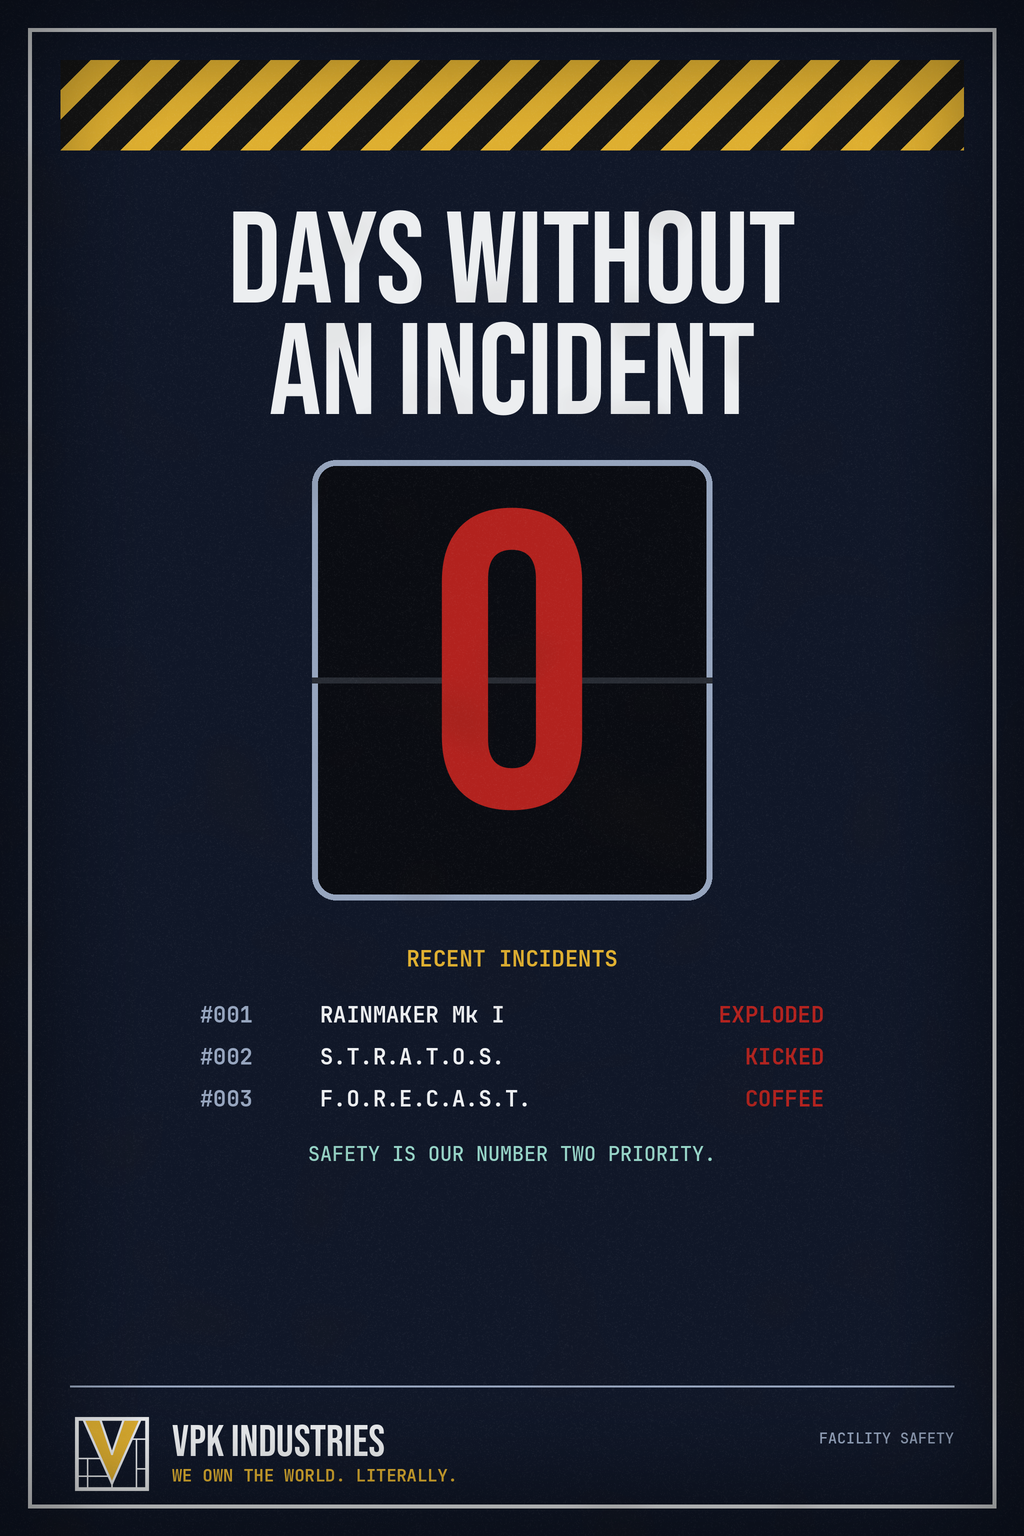
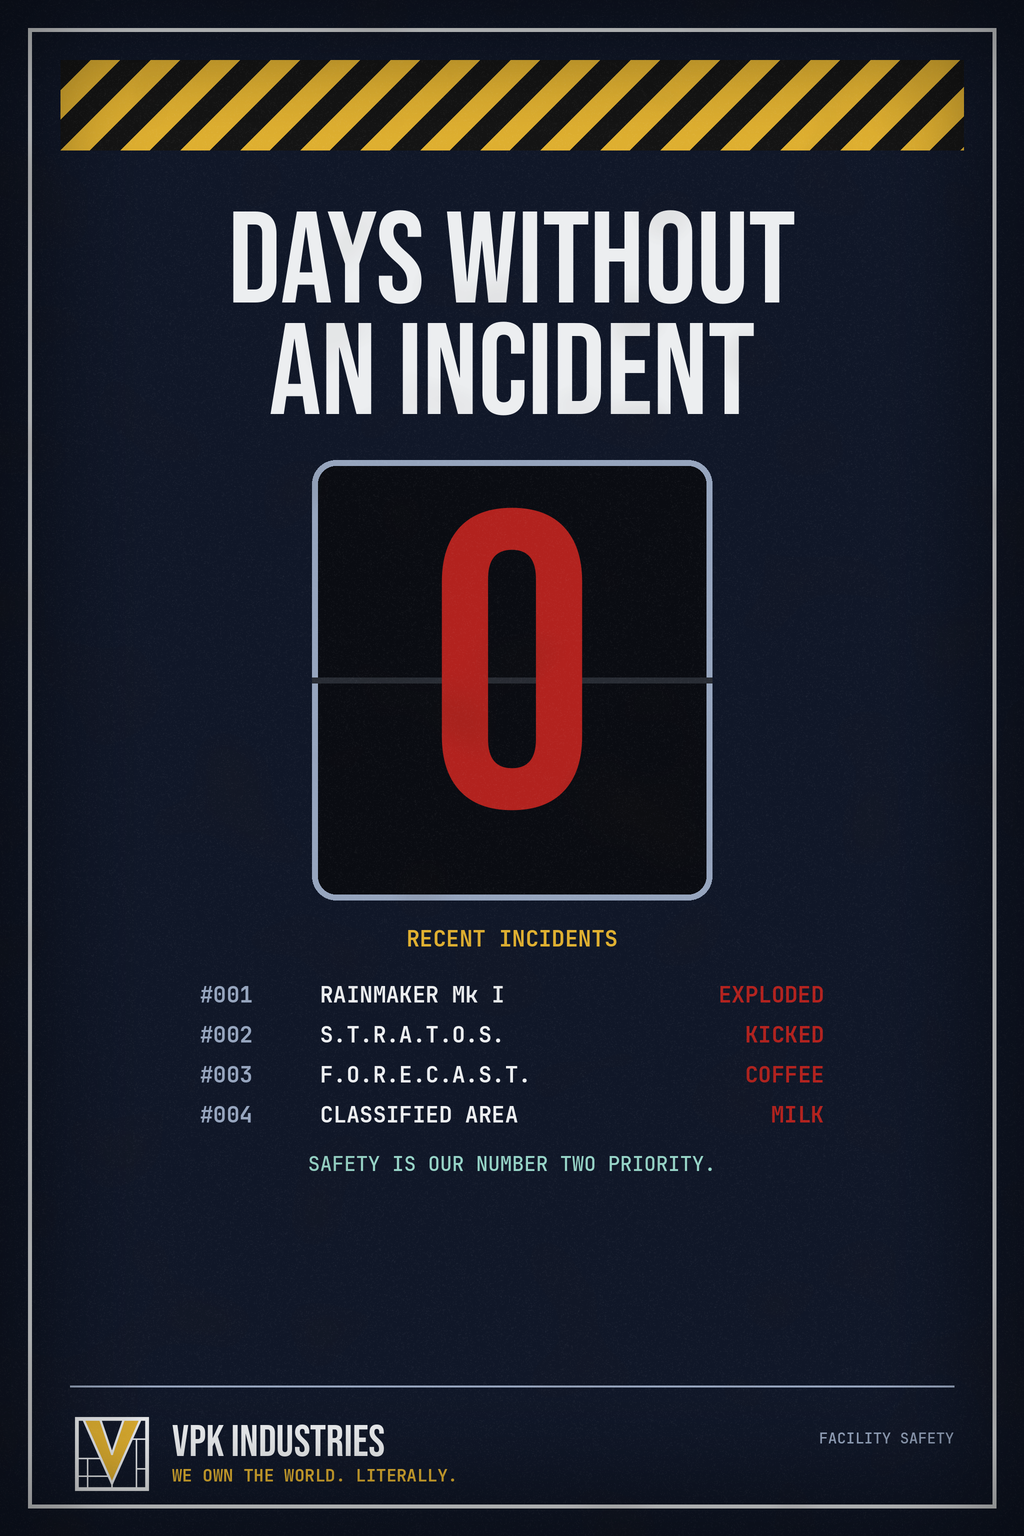
docs: add milk crisis newspapers, add #004 to the incident poster
Claude-Session: https://claude.ai/code/session_01TPtXe8YEjXWuXNmFgmXabW

diff --git a/docs/vpk-industries.md b/docs/vpk-industries.md
@@ -229,6 +229,15 @@ Ideas for props and textures:
 - a framed one-pint banknote on the wall: *"In Cow We Trust"*,
 - a poster: *"Report all milk hoarding."*
 
+Newspaper front pages from the crisis (1024×1448, in [`docs/images/vpk-industries/`](./images/vpk-industries/)):
+
+| File | Front page |
+| :--- | :--- |
+| `newspaper_daily-pint_milk-overtakes-gold_1024x1448.png` | *The Daily Pint*: "Milk overtakes gold", a chart of milk against gold |
+| `newspaper_dairy-herald_soft-drinks-go-flat_1024x1448.png` | *The Dairy Herald*: "Soft drinks go flat", the last bottle of cola |
+| `newspaper_udder-times_great-fridge-heist_1024x1448.png` | *The Udder Times*: "Great fridge heist", the empty milk reserve and a KD-PX crate |
+| `newspaper_evening-moo_long-may-she-reign_1024x1448.png` | *The Evening Moo*: "Long may she reign", the coronation of Bessie IV; side box: LactoKd™ recalled |
+
 ### What comes next
 
 The crisis has never officially ended; VPK Industries considers it *"stable"*. A **Second Milk Crisis** is planned for the winter version: DynaSnow™ freezes the world's milk reserves solid.
@@ -276,7 +285,7 @@ Posters (1024×1536) for the walls of the rooms, same folder:
 | `poster_employee-of-the-month_1024x1536.png` | Employee of the Month: Daniel K., "photo unavailable", every month |
 | `poster_the-darkness-is-free_1024x1536.png` | *"The darkness is free. The light costs extra."*: Light Subscription™, a street lamp with a price tag |
 | `poster_kdanium_1024x1536.png` | *"The element of perfection."*: the Kd 404 periodic table tile |
-| `poster_days-without-an-incident_1024x1536.png` | Days without an incident: **0**, the three incident reports, *"Safety is our number two priority."* |
+| `poster_days-without-an-incident_1024x1536.png` | Days without an incident: **0**, the four incident reports, *"Safety is our number two priority."* |
 | `poster_do-not-kick-the-server_1024x1536.png` | *"Do not kick the server. Again."*: the S.T.R.A.T.O.S. cabinet and a crossed-out boot (Incident Report #002) |
 | `poster_we-are-not-hiring_1024x1536.png` | *"Join the Nonvis Division"* with a "POSITION FILLED" stamp; every position: Daniel K. |
 | `poster_clear-sky-unlock_1024x1536.png` | *"Miss the sun?"*: Clear Sky Unlock for 4.99, locked sun, "UNAVAILABLE" stamp |
